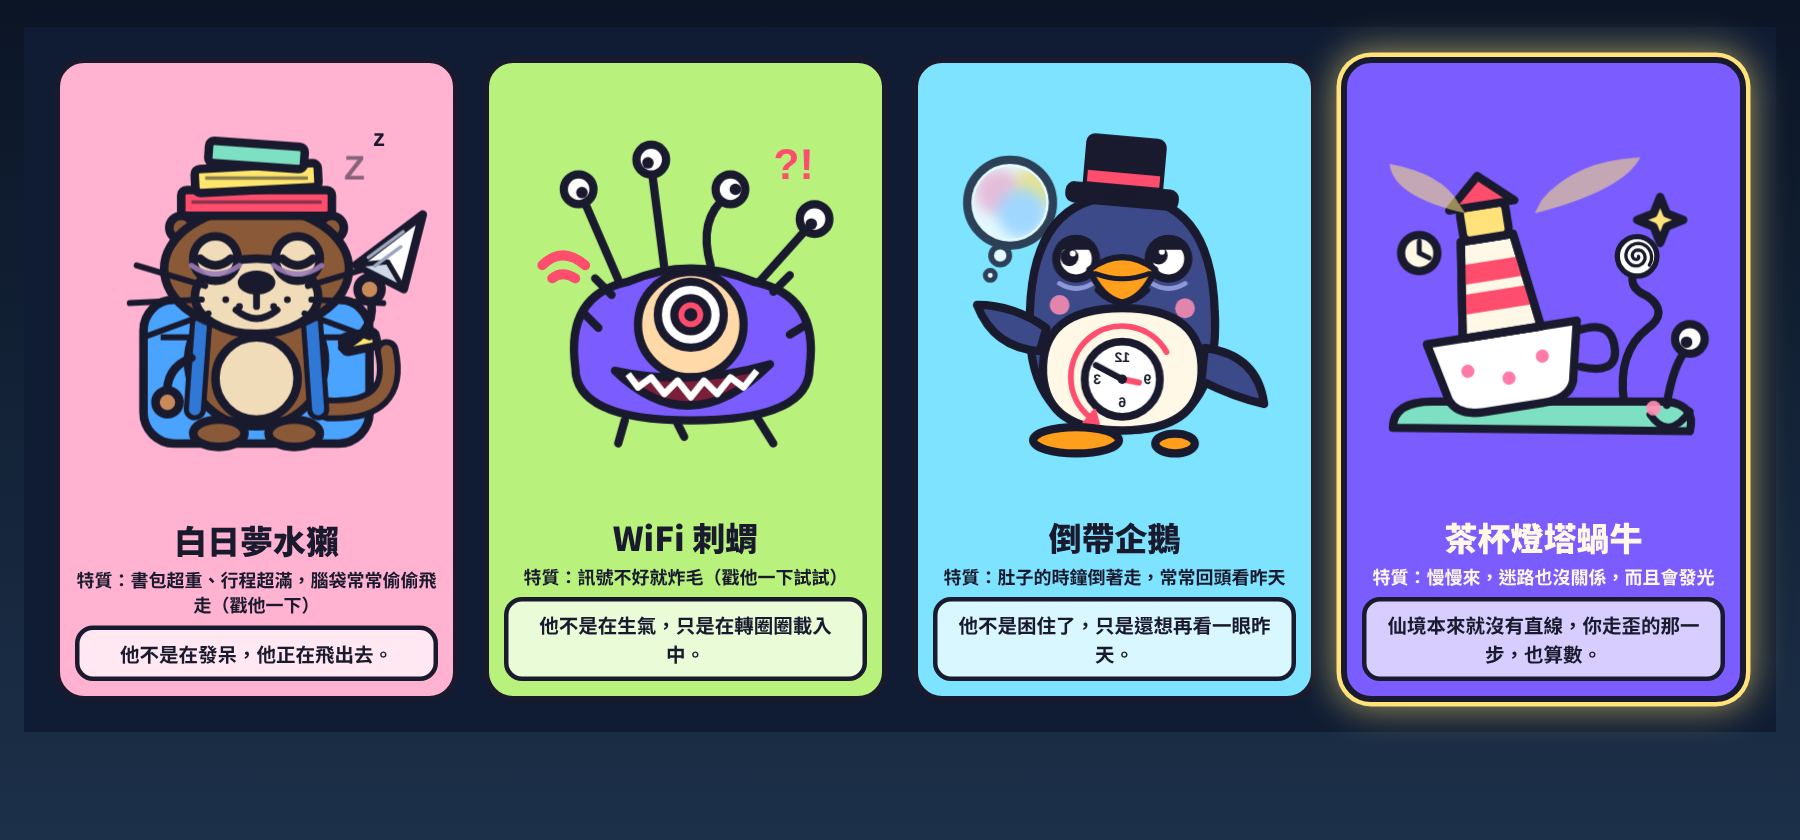
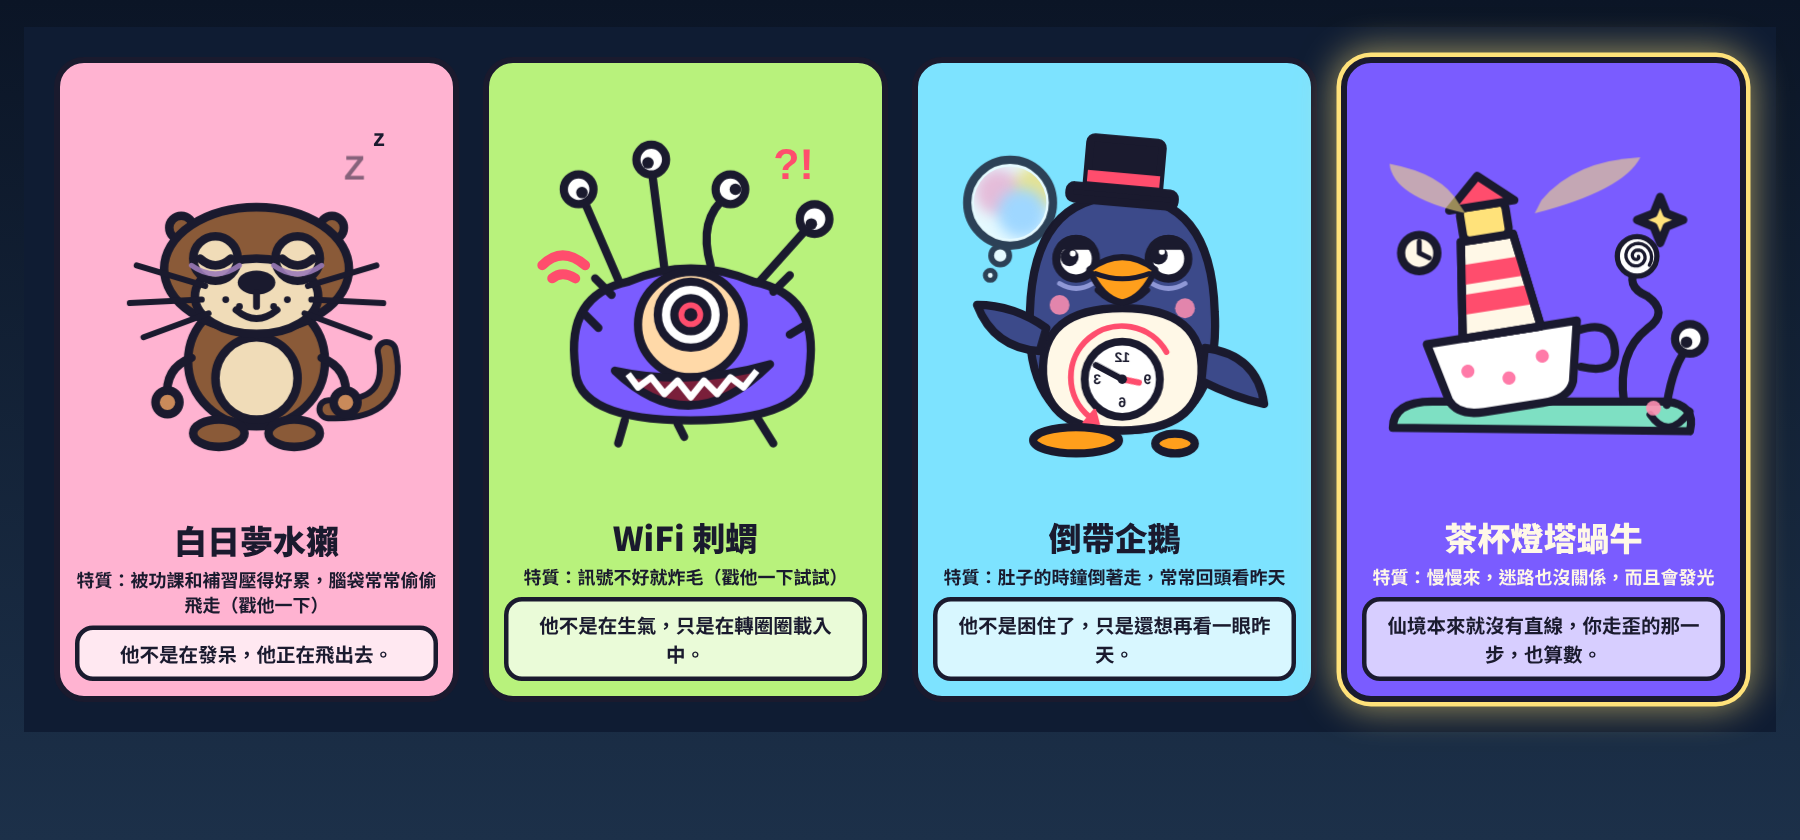
Lighthouse: 抽牌小樣本，白日夢水獺拿掉所有道具
Claude-Session: https://claude.ai/code/session_01QMXbFy7GatcecM2zJaJAS8

Changed region(s): [[0.0622, 0.2476, 0.2489, 0.5571], [0.0933, 0.1548, 0.1867, 0.2786], [0.0622, 0.681, 0.2489, 0.7429]]

diff --git a/lighthouse/cards-sample.html b/lighthouse/cards-sample.html
@@ -112,15 +112,11 @@ const eyeBig = (x,y,r=11,px=0) => `<g class="blink"><circle cx="${x}" cy="${y}" 
 const eyeSpiral = (x,y,r=12) => { let d = ""; for(let i = 0; i <= 44; i++){ const t = i * .3, rr = .8 + i * (r - 3.6) / 44; d += `${i ? "L" : "M"}${(x + rr * Math.cos(t)).toFixed(1)} ${(y + rr * Math.sin(t)).toFixed(1)}`; }
   return `<g class="blink"><circle cx="${x}" cy="${y}" r="${r}" fill="#fff" stroke="${INK}" stroke-width="3.2"/><path d="${d}" fill="none" stroke="${INK}" stroke-width="2" stroke-linecap="round" stroke-linejoin="round"/></g>`; };
 const ART = {
-  /* 白日夢水獺：頭上頂著書、背著超重書包，偷偷把功課折成紙飛機，幻想飛出去 */
+  /* 白日夢水獺：被功課和補習壓得好累，常常偷偷幻想飛出去（沒有任何道具） */
   otter: `<svg viewBox="-6 -4 212 212"><g class="wob">
-    <rect x="34" y="104" width="132" height="84" rx="18" fill="#4aa3ff" ${o}/>
-    <path d="M44 126 L156 126" stroke="${INK}" stroke-width="3.5"/><rect x="82" y="134" width="36" height="22" rx="5" fill="#2f78d6" stroke="${INK}" stroke-width="3"/>
-    <rect x="150" y="124" width="20" height="9" rx="3" fill="#ffe66d" ${o} transform="rotate(-12 160 128)"/>
     <path d="M142 168 Q184 170 176 134" fill="none" stroke="${INK}" stroke-width="14" stroke-linecap="round"/><path d="M142 168 Q184 170 176 134" fill="none" stroke="#8a5a38" stroke-width="7" stroke-linecap="round"/>
     <ellipse cx="100" cy="140" rx="40" ry="38" fill="#8a5a38" ${o}/>
     <ellipse cx="100" cy="150" rx="24" ry="24" fill="#f0dcb8" ${o}/>
-    <path d="M68 112 L64 168 M132 112 L136 168" stroke="${INK}" stroke-width="13" stroke-linecap="round"/><path d="M68 112 L64 168 M132 112 L136 168" stroke="#2f78d6" stroke-width="7" stroke-linecap="round"/>
     <ellipse cx="78" cy="182" rx="15" ry="8" fill="#8a5a38" ${o}/><ellipse cx="122" cy="182" rx="15" ry="8" fill="#8a5a38" ${o}/>
     <path d="M62 138 Q46 144 48 162" fill="none" stroke="${INK}" stroke-width="5" stroke-linecap="round"/><circle cx="48" cy="164" r="7" fill="#c98a5a" ${o}/>
     <circle cx="56" cy="62" r="7" fill="#8a5a38" ${o}/><circle cx="144" cy="62" r="7" fill="#8a5a38" ${o}/>
@@ -134,9 +130,7 @@ const ART = {
     <g class="sleepE"><circle cx="76" cy="80" r="13" fill="#f0dcb8" ${o}/><circle cx="124" cy="80" r="13" fill="#f0dcb8" ${o}/><path d="M67 80 Q76 88 85 80 M115 80 Q124 88 133 80" fill="none" stroke="${INK}" stroke-width="5" stroke-linecap="round"/></g>
     <g class="awakeE"><circle cx="76" cy="80" r="17" fill="#fff" ${o}/><circle cx="124" cy="80" r="17" fill="#fff" ${o}/><circle cx="76" cy="80" r="3.2" fill="${INK}"/><circle cx="124" cy="80" r="3.2" fill="${INK}"/><path d="M58 56 Q74 46 90 58 M110 58 Q126 46 142 56" fill="none" stroke="${INK}" stroke-width="5" stroke-linecap="round"/><path d="M40 70 L28 64 M42 56 L32 46" stroke="${INK}" stroke-width="3.5" stroke-linecap="round"/></g>
     <path d="M62 84 Q76 94 90 84 M110 84 Q124 94 138 84" fill="none" stroke="#9b7bb8" stroke-width="3" stroke-linecap="round" opacity=".9"/>
-    <g transform="translate(0 4)"><rect x="56" y="36" width="88" height="15" rx="3" fill="#ff4d6d" ${o}/><rect x="64" y="22" width="72" height="14" rx="3" fill="#ffe66d" ${o} transform="rotate(-3 100 29)"/><rect x="72" y="9" width="56" height="13" rx="3" fill="#7ee0c3" ${o} transform="rotate(4 100 15)"/><path d="M62 43 L138 43 M70 29 L130 29" stroke="${INK}" stroke-width="2" opacity=".5"/></g>
-    <path d="M150 132 Q172 122 166 100" fill="none" stroke="${INK}" stroke-width="5" stroke-linecap="round"/><circle cx="166" cy="98" r="7" fill="#c98a5a" ${o}/>
-    <g class="rock"><g transform="rotate(-18 176 80)"><path d="M158 78 L204 62 L180 100 Z" fill="#fff" ${o}/><path d="M158 78 L180 100 L176 82 Z" fill="#cfd8e6" stroke="${INK}" stroke-width="3" stroke-linejoin="round"/><path d="M166 76 L190 68 M168 82 L186 76" stroke="#9aa7bd" stroke-width="2" stroke-linecap="round"/></g></g>
+    <path d="M138 138 Q154 144 152 162" fill="none" stroke="${INK}" stroke-width="5" stroke-linecap="round"/><circle cx="152" cy="164" r="7" fill="#c98a5a" ${o}/>
     </g>
     <g class="zz" fill="${INK}" font-weight="900" font-family="sans-serif"><text x="150" y="30" font-size="20">Z</text></g>
     <g class="zz" style="animation-delay:.7s" fill="${INK}" font-weight="900" font-family="sans-serif"><text x="168" y="14" font-size="14">z</text></g>
@@ -212,7 +206,7 @@ const ART = {
 };
 
 const CARDS = [
-  {id:"otter",   name:"白日夢水獺",   trait:"特質：書包超重、行程超滿，腦袋常常偷偷飛走（戳他一下）", say:"他不是在發呆，他正在飛出去。", bg:"#ffb3d1", rare:0},
+  {id:"otter",   name:"白日夢水獺",   trait:"特質：被功課和補習壓得好累，腦袋常常偷偷飛走（戳他一下）", say:"他不是在發呆，他正在飛出去。", bg:"#ffb3d1", rare:0},
   {id:"hedgehog",name:"WiFi 刺蝟", trait:"特質：訊號不好就炸毛（戳他一下試試）", say:"他不是在生氣，只是在轉圈圈載入中。", bg:"#b8f27c", rare:0},
   {id:"penguin", name:"倒帶企鵝",   trait:"特質：肚子的時鐘倒著走，常常回頭看昨天", say:"他不是困住了，只是還想再看一眼昨天。", bg:"#7de3ff", rare:0},
   {id:"snail",   name:"茶杯燈塔蝸牛", trait:"特質：慢慢來，迷路也沒關係，而且會發光", say:"仙境本來就沒有直線，你走歪的那一步，也算數。", bg:"#7a5cff", rare:1}
